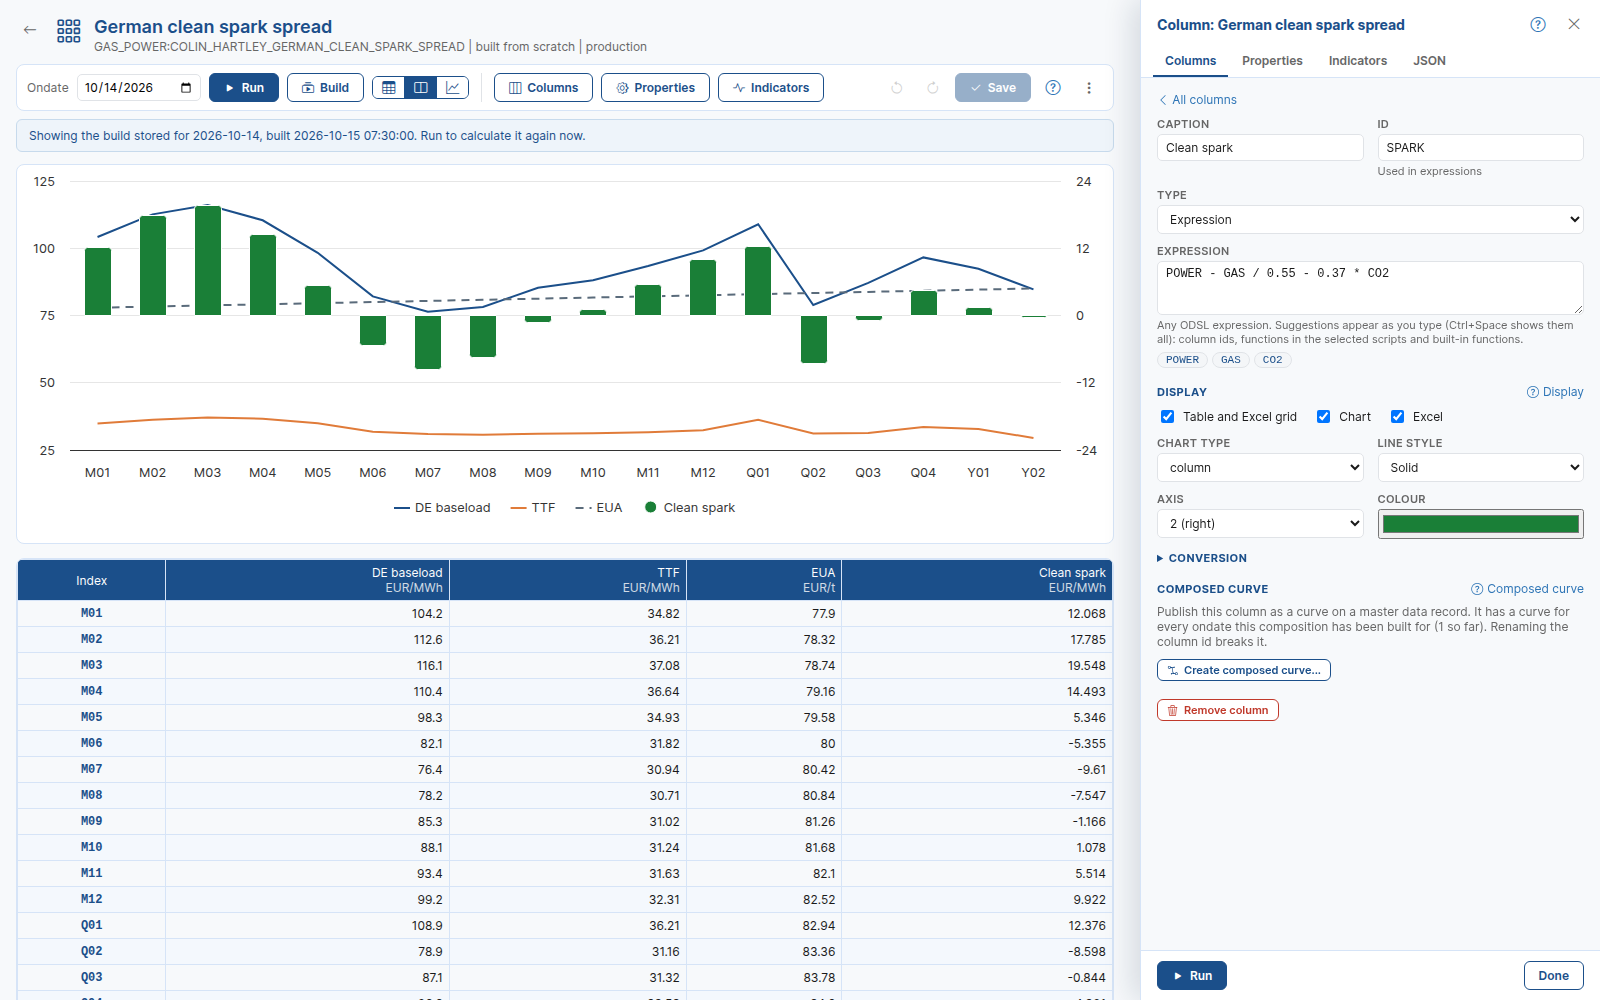
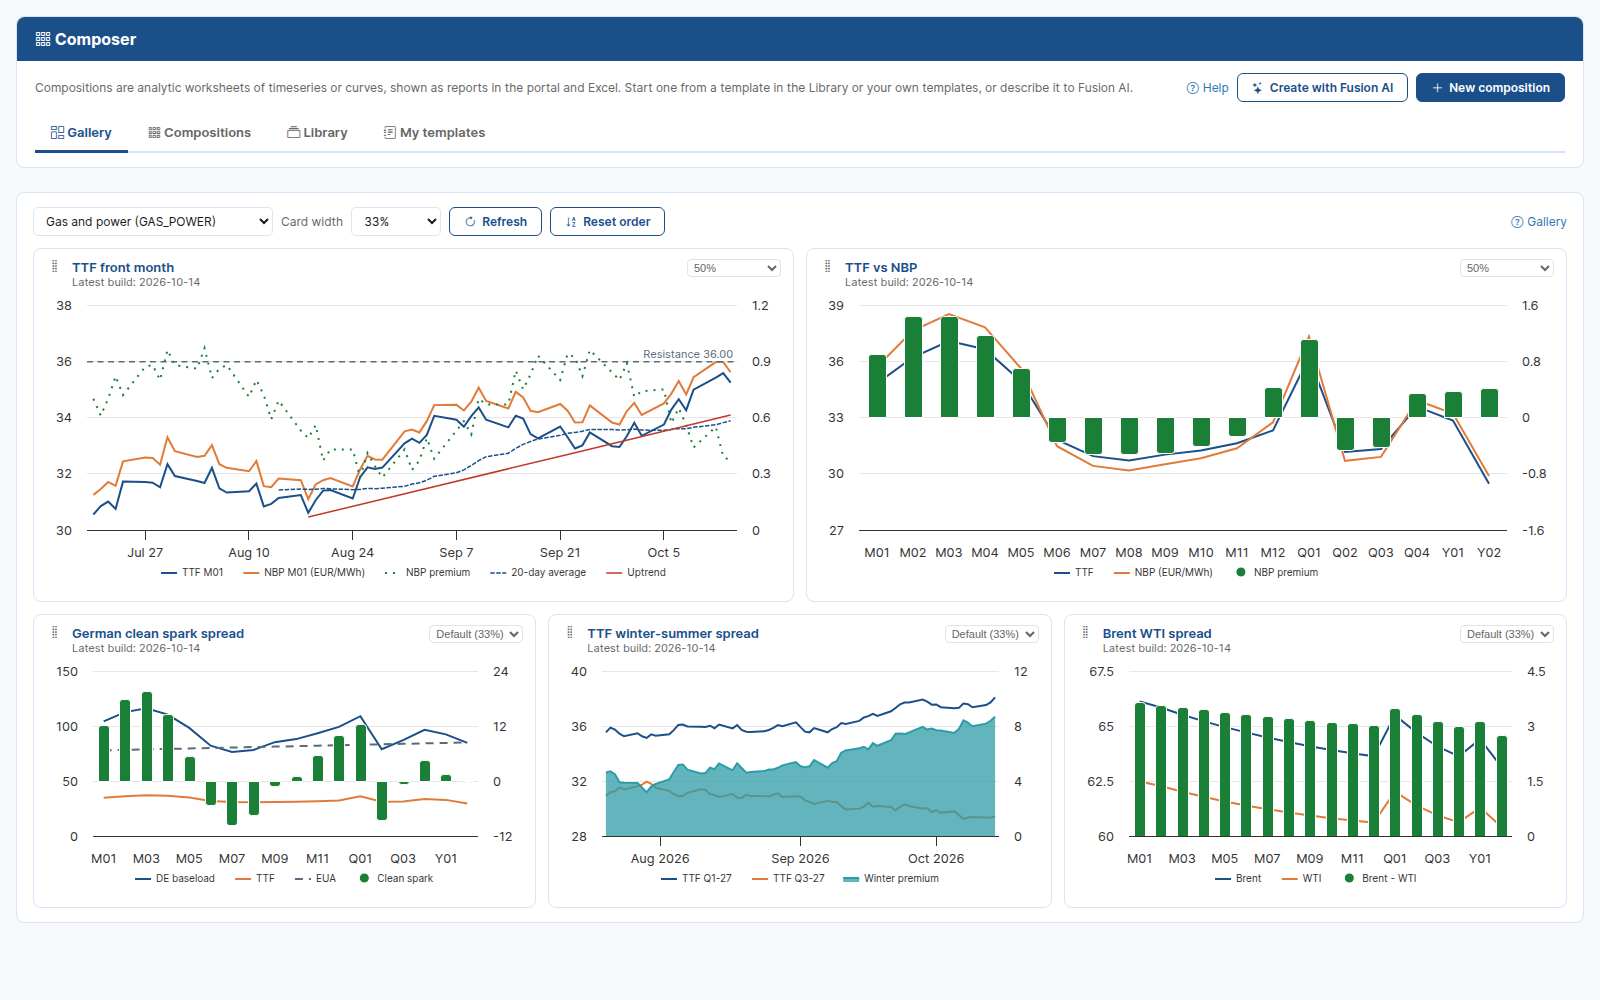
Home page improvement

diff --git a/src/css/custom.css b/src/css/custom.css
@@ -1002,6 +1002,17 @@ code {
   color: #c9d3e3;
   margin-bottom: 32px;
 }
+.home-hero { overflow: hidden; }
+.home-hero__collage {
+  display: block;
+  width: 112%;
+  max-width: none;
+  height: auto;
+  margin: -24px -6% -32px 0;
+}
+@media (max-width: 1100px) {
+  .home-hero__collage { width: 100%; margin: 0; }
+}
 .home-hero__actions, .hero__actions {
   display: flex;
   gap: 12px;
@@ -1011,10 +1022,15 @@ code {
 /* Home sections */
 .home-section {
   padding: 88px 0;
+  background: #e7ecf3;
 }
 .home-section--alt {
-  background: var(--odsl-soft);
-  border-top: 1px solid var(--odsl-line);
+  background: #f1f4f8;
+  border-top: 1px solid #d9e0ea;
+}
+.home-section .product-card, .home-section .article-card {
+  border-color: #d3dbe6;
+  box-shadow: 0 6px 18px -10px rgba(15, 31, 61, 0.25);
 }
 .home-section .container { max-width: 1320px; }
 .home-section__head {
@@ -1050,8 +1066,8 @@ code {
 
 .product-grid {
   display: grid;
-  grid-template-columns: repeat(3, 1fr);
-  gap: 24px;
+  grid-template-columns: repeat(2, 1fr);
+  gap: 28px;
 }
 .product-card, .article-card {
   display: flex;
@@ -1078,8 +1094,8 @@ code {
 .product-card__shot img {
   width: 100%;
   height: 100%;
-  object-fit: contain;
-  object-position: center;
+  object-fit: cover;
+  object-position: top left;
   display: block;
 }
 .product-card__body, .article-card__body {
@@ -1225,7 +1241,7 @@ code {
 .red_item .product-icon, button .product-icon { margin-bottom: 0; }
 
 @media (max-width: 1100px) {
-  .product-grid, .article-grid { grid-template-columns: repeat(2, 1fr); }
+  .article-grid { grid-template-columns: repeat(2, 1fr); }
   .home-hero__inner, .hero--split .hero__inner { grid-template-columns: 1fr; gap: 40px; }
   .home-hero h1 { font-size: 2.5rem; }
 }

diff --git a/src/components/HomepageFeatures.js b/src/components/HomepageFeatures.js
@@ -298,7 +298,7 @@ export function AIHero() {
           </div>
         </div>
         <div className="home-hero__shot">
-          <BrowserFrame src="/img/product/data-loaders.png" alt="Data Loaders mapping the columns of a broker settlement file to the fields of an event" />
+          <img className="home-hero__collage" src="/img/product/home-collage.png" alt="OpenDataDSL screens: Data Loaders mapping a broker file, with Composer, Validation and Fusion AI behind it" />
         </div>
       </div>
     </section>
@@ -337,7 +337,7 @@ function Benefit({title, text, link}) {
   return (
     <a className="product-card" href={"/features/" + link}>
       <div className="product-card__shot">
-        <img src={"/img/diagrams/" + link + ".png"} alt={title + ": how it works"} loading="lazy" />
+        <img src={"/img/product/" + link + ".png"} alt={title + " screenshot"} loading="lazy" />
       </div>
       <div className="product-card__body">
         <h3>{title}</h3>
